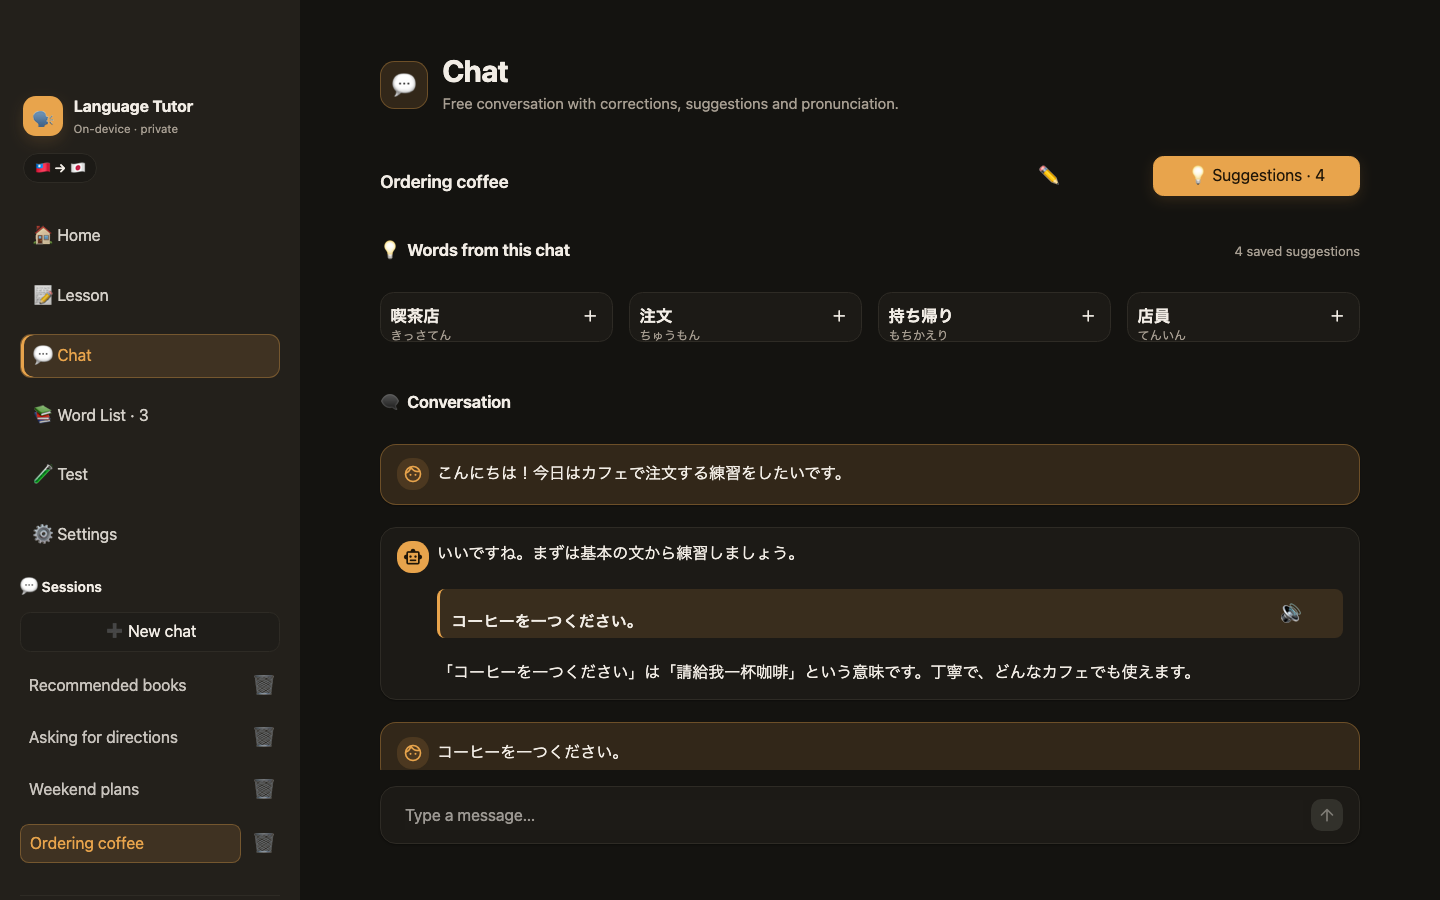
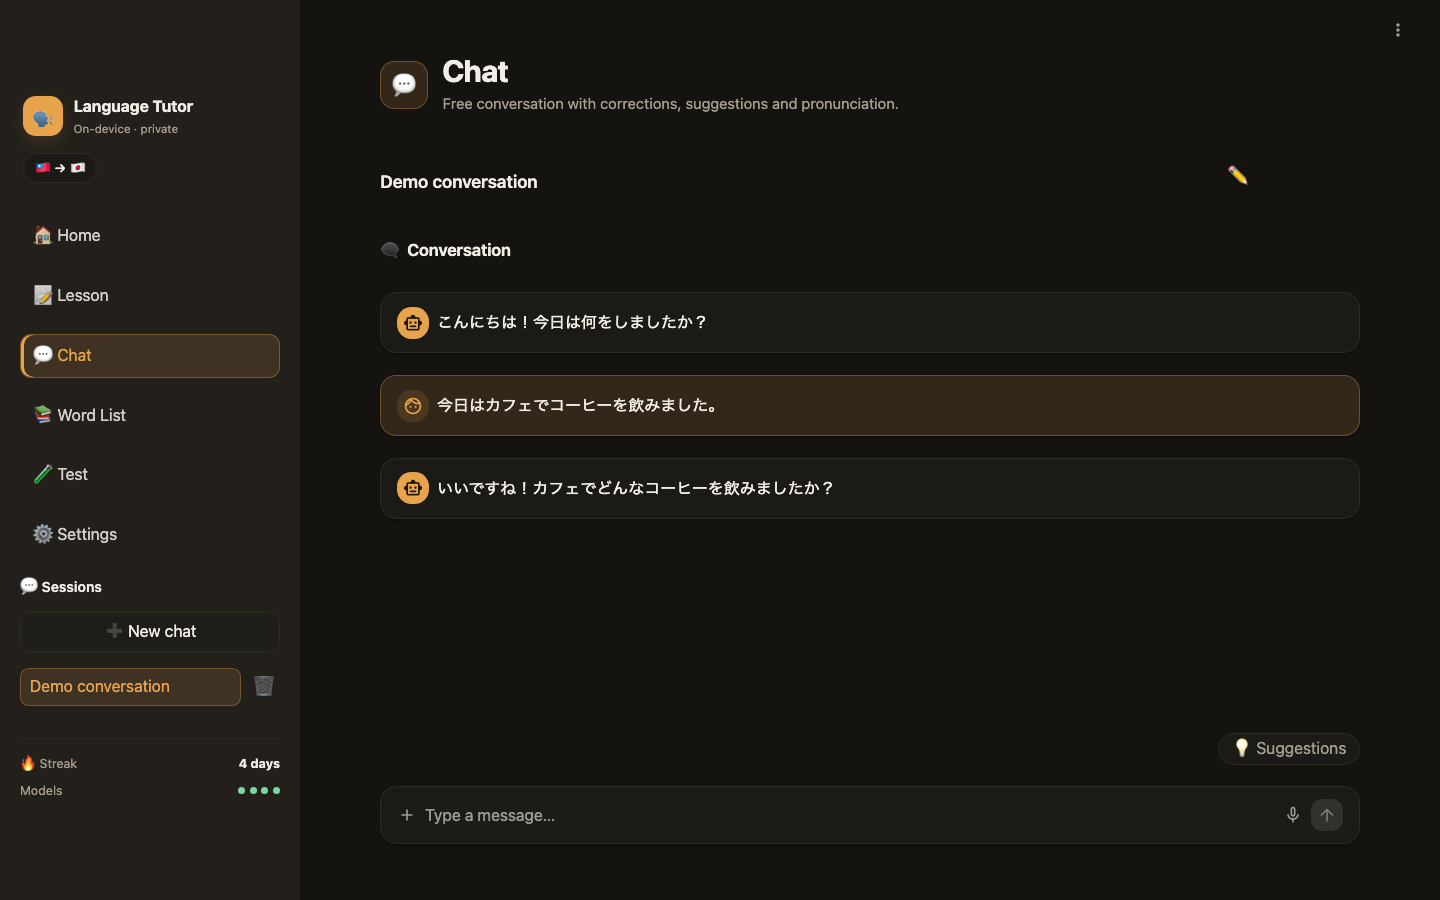
feat: consolidate chat composer controls

diff --git a/ui/pages/chat.py b/ui/pages/chat.py
@@ -4,7 +4,7 @@ import tempfile
 import streamlit as st
 
 from ui import theme
-from ui.components.audio_controls import render_message_with_tts, render_stt_input
+from ui.components.audio_controls import render_message_with_tts, transcribe_audio
 from ui.components.stream_display import stream_with_thinking
 from ui.components.word_chip import (
     add_word_suggestions,
@@ -16,6 +16,14 @@ from ui.components.word_chip import (
     set_rail_open,
 )
 from ui.state import get
+
+
+def _save_uploaded_image(uploaded) -> str:
+    """Copy an uploaded image to a temp file so the model layer can open it."""
+    suffix = os.path.splitext(uploaded.name)[1]
+    with tempfile.NamedTemporaryFile(delete=False, suffix=suffix) as f:
+        f.write(uploaded.getvalue())
+        return f.name
 
 
 def _render_sessions(store, target_lang: str, active_session: str | None) -> None:
@@ -54,6 +62,7 @@ def render() -> None:
     native_lang, target_lang = language_svc.get_language_pair()
     store = get("store")
     chat_svc = get("chat_svc")
+    stt_available = get("mm").is_model_available("stt")
 
     theme.page_header(
         "💬",
@@ -130,19 +139,6 @@ def render() -> None:
                 else:
                     st.write(msg["content"])
 
-        uploaded_image = st.file_uploader(
-            "📷 Attach an image (optional)",
-            type=["jpg", "jpeg", "png"],
-            key=f"img_{active_session}",
-            label_visibility="collapsed",
-        )
-        image_path = None
-        if uploaded_image:
-            suffix = os.path.splitext(uploaded_image.name)[1]
-            with tempfile.NamedTemporaryFile(delete=False, suffix=suffix) as f:
-                f.write(uploaded_image.getvalue())
-                image_path = f.name
-
     if rail_col is not None:
         with rail_col:
             with st.container(key="word_rail"):
@@ -154,27 +150,45 @@ def render() -> None:
                     closable=True,
                 )
 
-    stt_text = render_stt_input(key=active_session)
     suggestions = get_word_suggestions()
-    suggestion_count = f" ({len(suggestions)})" if suggestions else ""
-    with st.container(key="chat_toggle"):
-        if st.button(
-            "💡",
-            key="toggle_suggestions",
-            help=(
-                f"Hide word suggestions{suggestion_count}"
-                if show_rail
-                else f"Show word suggestions{suggestion_count}"
-            ),
-            type="primary" if show_rail else "tertiary",
-        ):
-            set_rail_open(not show_rail)
-            st.rerun()
+    with st.bottom:
+        with st.container(key="chat_toolbar"):
+            help_text = f"{'Hide' if show_rail else 'Show'} word suggestions"
+            if suggestions:
+                help_text += f" ({len(suggestions)})"
+            if st.button(
+                f"💡 Suggestions · {len(suggestions)}" if suggestions else "💡 Suggestions",
+                key="toggle_suggestions",
+                help=help_text,
+                type="primary" if show_rail else "tertiary",
+            ):
+                set_rail_open(not show_rail)
+                st.rerun()
 
-    user_input = st.chat_input("Type a message…")
-    final_input = stt_text or user_input
+    submission = st.chat_input(
+        "Type a message…",
+        accept_file=True,
+        file_type=["jpg", "jpeg", "png"],
+        accept_audio=stt_available,
+        audio_sample_rate=16000,
+        key=f"composer_{active_session}",
+    )
+    if not submission:
+        return
 
-    if final_input:
+    final_input = submission.text.strip()
+    audio = getattr(submission, "audio", None)
+    if audio is not None:
+        transcript = transcribe_audio(audio, lang=target_lang, fallback_lang=native_lang)
+        if transcript:
+            final_input = transcript
+
+    image_path = _save_uploaded_image(submission.files[0]) if submission.files else None
+    final_input = final_input or ("📷" if image_path else "")
+    if not final_input:
+        return
+
+    try:
         history_before = chat_svc.get_history(target_lang, active_session)
         is_first_message = len(history_before) == 0
         with st.chat_message("user"):
@@ -209,3 +223,6 @@ def render() -> None:
 
         language_svc.update_streak(target_lang)
         st.rerun()
+    finally:
+        if image_path:
+            os.unlink(image_path)

diff --git a/ui/theme.py b/ui/theme.py
@@ -631,43 +631,39 @@ div[class*="st-key-ltcardhover_"]:hover {
 }
 [data-testid="stBottom"] { background: linear-gradient(transparent, var(--lt-bg) 40%); }
 
-/* floating suggestion toggle, aligned with the pinned chat input */
-/* The bottom input is min(63.75rem, main width - 10rem). Reserve 3.5rem for the
-   44px button and its gap so it sits just outside the input's right edge. */
-.stApp { --lt-sidebar-w: 0px; }
-.stApp:has([data-testid="stSidebar"][aria-expanded="true"]) { --lt-sidebar-w: 18.75rem; }
-div[class*="st-key-chat_toggle"] {
-    --lt-main-w: calc(100vw - var(--lt-sidebar-w));
-    --lt-chat-input-w: min(63.75rem, calc(var(--lt-main-w) - 10rem));
-    position: fixed;
-    right: max(0.5rem, calc((var(--lt-main-w) - var(--lt-chat-input-w)) / 2 - 3.5rem));
-    bottom: 4.05rem;
-    z-index: 1000;
+/* suggestion rail toggle, inline just above the composer */
+div[class*="st-key-chat_toolbar"] {
+    margin: 0 0 0.3rem;
+}
+div[class*="st-key-chat_toolbar"] [data-testid="stElementContainer"] {
+    width: 100%;
+}
+div[class*="st-key-chat_toolbar"] .stButton {
+    display: flex;
+    width: 100%;
+    justify-content: flex-end;
+}
+div[class*="st-key-chat_toolbar"] .stButton button {
+    display: flex;
     width: auto;
-}
-div[class*="st-key-chat_toggle"] button {
-    width: 2.75rem;
-    height: 2.75rem;
-    min-height: 2.75rem;
-    padding: 0;
+    min-height: 2rem;
+    height: 2rem;
+    padding: 0 0.8rem;
     border-radius: 999px;
-    font-size: 1.1rem;
+    font-size: 0.8rem;
+    font-weight: 550;
     line-height: 1;
-    box-shadow: 0 12px 28px var(--lt-shadow-hover-color);
+    box-shadow: none;
 }
-div[class*="st-key-chat_toggle"] button[data-testid="stBaseButton-tertiary"] {
+div[class*="st-key-chat_toolbar"] .stButton button[data-testid="stBaseButton-tertiary"] {
     background: var(--lt-surface);
     border: 1px solid var(--lt-border);
+    color: var(--lt-muted);
 }
-div[class*="st-key-chat_toggle"] button[data-testid="stBaseButton-tertiary"]:hover {
+div[class*="st-key-chat_toolbar"] .stButton button[data-testid="stBaseButton-tertiary"]:hover {
     border-color: var(--lt-accent-border);
     color: var(--lt-accent);
-}
-@media (max-width: 900px) {
-    div[class*="st-key-chat_toggle"] {
-        right: 0.75rem;
-        bottom: 7.6rem;
-    }
+    transform: none;
 }
 
 /* speakable sentence + its play button */

diff --git a/ui/components/audio_controls.py b/ui/components/audio_controls.py
@@ -1,7 +1,11 @@
 import base64
+import os
 import re
 import tempfile
+from typing import Protocol
+
 import streamlit as st
+
 from ui.state import get
 
 # Tolerates malformed tags the model occasionally emits (e.g. "<s speak>"
@@ -87,16 +91,26 @@ def render_tts_button(text: str, lang: str, key: str) -> None:
         st.html(autoplay_audio_html(audio_bytes))
 
 
-def render_stt_input(key: str) -> str | None:
-    mm = get("mm")
-    if not mm.is_model_available("stt"):
-        return None
-    audio = st.audio_input("🎤 Speak", key=f"stt_{key}")
-    if audio:
+class AudioUpload(Protocol):
+    def getvalue(self) -> bytes: ...
+
+
+def transcribe_audio(
+    audio: AudioUpload, lang: str | None = None, fallback_lang: str | None = None
+) -> str:
+    """Transcribe a recorded audio upload to text.
+
+    ``audio`` is any file-like object exposing ``getvalue()`` — for example the
+    ``UploadedFile`` returned by ``st.chat_input(accept_audio=True)``.
+    """
+    tmp_path = None
+    try:
         with tempfile.NamedTemporaryFile(suffix=".wav", delete=False) as f:
             f.write(audio.getvalue())
             tmp_path = f.name
         with st.spinner("Transcribing..."):
-            stt = mm.get_stt()
-            return stt.transcribe(tmp_path)
-    return None
+            stt = get("mm").get_stt()
+            return stt.transcribe(tmp_path, lang=lang, fallback_lang=fallback_lang)
+    finally:
+        if tmp_path:
+            os.unlink(tmp_path)

diff --git a/tests/test_stt_input.py b/tests/test_stt_input.py
@@ -1,0 +1,53 @@
+import os
+from contextlib import contextmanager
+from unittest.mock import MagicMock, patch
+
+import ui.components.audio_controls as audio_controls
+
+
+class FakeAudio:
+    def __init__(self, data: bytes):
+        self._data = data
+
+    def getvalue(self) -> bytes:
+        return self._data
+
+
+class FakeStreamlit:
+    @contextmanager
+    def spinner(self, *_args, **_kwargs):
+        yield
+
+
+def _mm(transcript: str = "こんにちは"):
+    mm = MagicMock()
+    stt = MagicMock()
+    stt.transcribe.return_value = transcript
+    mm.get_stt.return_value = stt
+    return mm, stt
+
+
+def test_audio_is_transcribed():
+    mm, stt = _mm()
+
+    with (
+        patch.object(audio_controls, "st", FakeStreamlit()),
+        patch.object(audio_controls, "get", return_value=mm),
+    ):
+        assert audio_controls.transcribe_audio(FakeAudio(b"fake-wav"), lang="ja") == "こんにちは"
+
+    assert stt.transcribe.call_count == 1
+
+
+def test_language_hints_are_forwarded_and_temp_file_removed():
+    mm, stt = _mm()
+
+    with (
+        patch.object(audio_controls, "st", FakeStreamlit()),
+        patch.object(audio_controls, "get", return_value=mm),
+    ):
+        audio_controls.transcribe_audio(FakeAudio(b"fake-wav"), lang="ja", fallback_lang="zh-TW")
+
+    call = stt.transcribe.call_args
+    assert call.kwargs == {"lang": "ja", "fallback_lang": "zh-TW"}
+    assert not os.path.exists(call.args[0])
